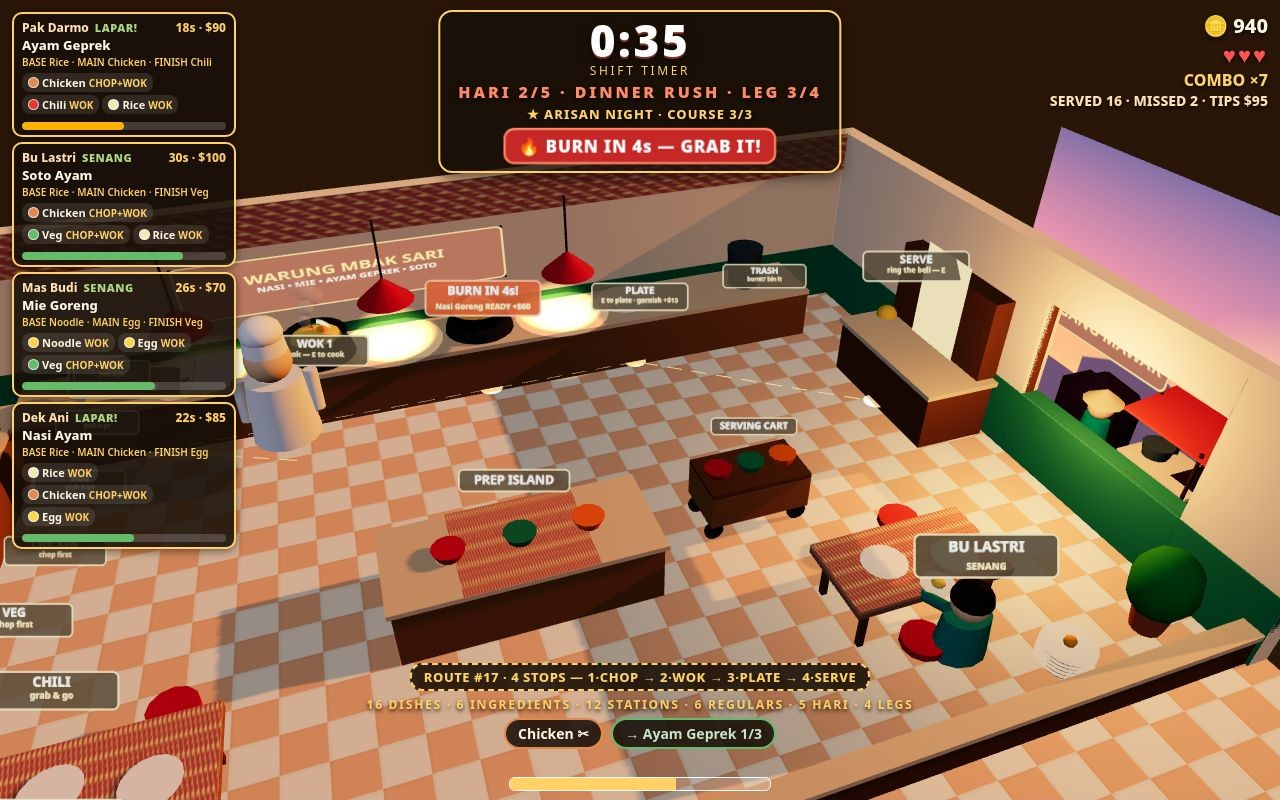
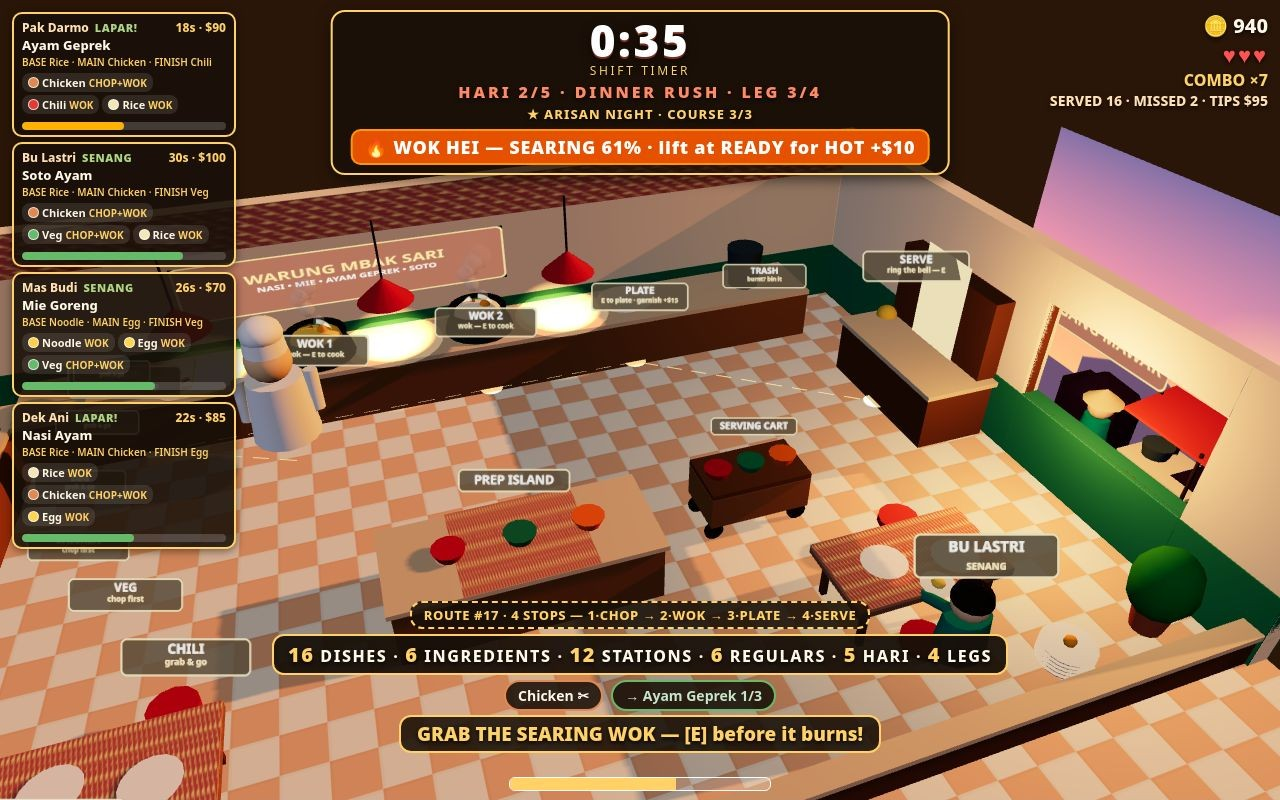
v6 challenger: wide establishing cover + hatch queue, legible meta strip, restored instruction line, wok-hei meter in cooking shot, plate-READY + VEG-label nits fixed

diff --git a/game/src/world3d.js b/game/src/world3d.js
@@ -380,6 +380,7 @@ export class World3D {
     this.buildRoom();
     this.buildStations();
     this.buildChef();
+    this.buildCoverQueue();
     // The gold route line on the floor: chef → every stop on the plan, in
     // order. Same plan as the HUD chip (routeSteps), so the two can never
     // disagree. Waypoint dots mark each stop; the line is the whole route,
@@ -674,10 +675,11 @@ export class World3D {
       // Crate labels sit toward the room (east), clear of the left frame edge:
       // the ticket column covers the first ~236px, so labels live well east
       // of the crates — v4's NOODLE pill was cut behind the tickets.
-      // Southern crates sit low in frame, so their labels ride higher —
-      // otherwise CHILI's pill is cut at the bottom edge.
+      // Southern crates sit low in frame, so their labels ride higher AND
+      // further east — otherwise VEG/CHILI pills are cut at the left edge
+      // (v5 nit, still visible in the v6 cover/cooking first shoot).
       const lab = labelSprite(s.label, s.gives === 'chicken' || s.gives === 'veg' ? 'chop first' : 'grab & go', 0.65);
-      lab.position.set(s.x + 2.4 + Math.max(0, s.z - 2.2) * 0.5, 1.95 + Math.max(0, s.z - 0.5) * 0.25, s.z);
+      lab.position.set(s.x + 2.4 + Math.max(0, s.z - 0.5) * 0.55, 1.95 + Math.max(0, s.z - 0.5) * 0.25, s.z);
       g.add(lab);
     } else if (s.kind === 'board') {
       box(1.5, 0.07, 0.9, 0xe8c98a, s.x, y + 0.04, s.z, g);
@@ -783,7 +785,10 @@ export class World3D {
       // the dish, its 3/3 layers and its price, the progress ring on the plate.
       const ready = dynamicLabel();
       ready.sprite.scale.set(2.1, 0.66, 1);
-      ready.sprite.position.set(s.x, 2.3, -3.35);
+      // v6 nit fix: the READY sub-line sat at y 2.3 / z -3.35, level with
+      // the hanging lamp shades (x 2, y 2.3) — partly occluded. It now rides
+      // higher and a touch forward of the lamp plane, clear of every shade.
+      ready.sprite.position.set(s.x, 2.62, -3.0);
       ready.sprite.visible = false;
       g.add(ready.sprite);
       this.plateReady = ready;
@@ -966,6 +971,41 @@ export class World3D {
     }
   }
 
+  /** The customer queue at the serve hatch — v6 cover only. Three regulars
+   *  waiting for their plates, facing the hatch: the cover's establishing
+   *  shot shows the warung serving real people, not an empty room. Hidden
+   *  in every other shot and in live play (the hatch stays usable). */
+  buildCoverQueue() {
+    const g = new THREE.Group();
+    const waiting = [
+      { x: 6.3, z: -2.8, shirt: 0xef6c00, hat: false },
+      { x: 6.4, z: -0.2, shirt: 0x5c6bc0, hat: true },
+      { x: 6.2, z: 1.0, shirt: 0x00897b, hat: false },
+    ];
+    for (const w of waiting) {
+      const body = new THREE.Mesh(new THREE.CylinderGeometry(0.28, 0.34, 0.62, 12), mat(w.shirt));
+      body.position.set(w.x, 0.62, w.z);
+      g.add(body);
+      const head = new THREE.Mesh(new THREE.SphereGeometry(0.23, 12, 10), mat(0xf2c89b));
+      head.position.set(w.x, 1.1, w.z);
+      g.add(head);
+      const hair = new THREE.Mesh(new THREE.SphereGeometry(0.24, 12, 10, 0, Math.PI * 2, 0, Math.PI / 2), mat(0x2b2118));
+      hair.position.set(w.x, 1.14, w.z);
+      g.add(hair);
+      if (w.hat) {
+        const hat = new THREE.Mesh(new THREE.ConeGeometry(0.3, 0.22, 12), mat(0xe8c98a));
+        hat.position.set(w.x, 1.32, w.z);
+        g.add(hat);
+      }
+    }
+    const lab = labelSprite('ANTRI 3', 'waiting at the hatch', 0.85);
+    lab.position.set(6.3, 2.15, -0.9);
+    g.add(lab);
+    g.visible = false;
+    this.scene.add(g);
+    this.coverQueue = g;
+  }
+
   buildChef() {
     const g = new THREE.Group();
     g.scale.setScalar(1.2); // the chef is the hero — BIG, mid-task, in frame
@@ -1043,6 +1083,8 @@ export class World3D {
   /** Mirror the live game state into the 3D scene. Called every frame. */
   sync(game, time) {
     const { cook } = game;
+    // The hatch queue exists only in the cover establishing shot.
+    if (this.coverQueue) this.coverQueue.visible = game.shot === 'cover';
     // Chef position, heading and walk bob.
     this.chef.position.set(cook.x, 0, cook.z);
     this.chef.rotation.y = cook.heading;
@@ -1228,12 +1270,20 @@ export class World3D {
     }
   }
 
-  /** Shot discipline: ONE strong camera for all four staged shots — the set
-   *  reads as one game getting busier (timer down, streak up, orders up),
-   *  not four different angles. Live play keeps the chase camera. The staged
-   *  camera yaws ~15° toward the east wall so the street outside the window
-   *  (passer-by, stall, GANG MAWAR sign) is in frame, not off the right edge. */
+  /** Shot discipline: ONE strong camera for the book/cooking/tally shots —
+   *  the set reads as one game getting busier (timer down, streak up,
+   *  orders up), not four different angles. The COVER breaks the rule on
+   *  purpose (v6): a high wide diagonal from the dining side (south-west)
+   *  looking north-east — the whole warung, the serve hatch with its
+   *  customer queue, and the street through the east window — so the cover
+   *  reads as an establishing shot, not "the same game at a different
+   *  moment". Live play keeps the chase camera. */
   followCamera(cook, shot) {
+    if (shot === 'cover') {
+      this.camera.position.set(-6.5, 11.0, 11.5);
+      this.camera.lookAt(2.0, 0, -2.5);
+      return;
+    }
     if (shot) {
       this.camera.position.set(-1.2, 8.6, 9.2);
       this.camera.lookAt(2.8, 0.2, -2.2);

diff --git a/game/src/shots.js b/game/src/shots.js
@@ -56,29 +56,34 @@ export function applyShot(game, name) {
   setWok(cook.wok2, null, 0, 0, false, false);
 
   if (name === 'cover') {
-    // Golden-hour dinner rush, mid-action — v5 numbers are DELIBERATELY
-    // different from v4's (1:12, 547, ×5, 9·1): 0:47 left, 812 coins,
-    // COMBO ×7, SERVED 14 · MISSED 2, HARI 2 · LEG 3/4. The set escalates
-    // as one rush: book 1:45 → cover 0:47 → cooking 0:35 → tally close.
-    game.elapsed = 133;
-    board.coins = 812; board.combo = 7; board.served = 14; board.lost = 2; board.tips = 105;
+    // WIDE ESTABLISHING SHOT — v6 re-frames the cover completely: a high
+    // diagonal from the dining side (south-west) looking north-east across
+    // the whole warung — crates, north counter, serve hatch with a customer
+    // queue, and the street through the east window — NOT the v5 straight-on
+    // mid-rush framing (AxForge: v5 read as "the same game at a different
+    // moment"). Staged numbers are DELIBERATELY different from v4's
+    // (1:12, 547, ×5, 9·1) AND v5's (0:47, 812, ×7, 14·2): 0:25 left,
+    // 963 coins, COMBO ×9, SERVED 17 · MISSED 1, HARI 2 · LEG 4/4.
+    // The set escalates as one rush: book 1:45 → cover 0:25 → cooking 0:35 → tally close.
+    game.elapsed = 155;
+    board.coins = 963; board.combo = 9; board.served = 17; board.lost = 1; board.tips = 138;
     board.tickets = [
-      ticket(1, 'nasi-goreng', 9, 44),
-      ticket(2, 'mie-goreng', 29, 42, true), // ★ CRITIC — 1.5x coins, short fuse
-      ticket(3, 'ayam-geprek', 24, 40),
-      ticket(4, 'soto-ayam', 41, 46),
-      ticket(5, 'gado-gado', 17, 36),
-      ticket(6, 'mie-ayam', 28, 44),
+      ticket(1, 'nasi-goreng', 7, 44),
+      ticket(2, 'mie-goreng', 31, 42, true), // ★ CRITIC — 1.5x coins, short fuse
+      ticket(3, 'ayam-geprek', 19, 40),
+      ticket(4, 'soto-ayam', 38, 46),
+      ticket(5, 'gado-gado', 12, 36),
+      ticket(6, 'mie-ayam', 25, 44),
     ];
-    cook.x = -2.0; cook.z = -2.7; cook.heading = 0.6;
+    cook.x = 5.6; cook.z = -1.2; cook.heading = Math.PI / 2; // at the serve hatch, facing east to ring the bell
     cook.carrying = [{ id: 'dish:mie-goreng', prepped: true, hot: true }];
-    setWok(cook.wok, 'nasi-goreng', 2.7, 6, false, false);
+    setWok(cook.wok, 'nasi-goreng', 3.1, 6, false, false);
     setWok(cook.wok2, 'mie-goreng', 7, 7, true, false, 2);
-    cook.plate = 'nasi-goreng';
+    cook.plate = 'mie-goreng';
     cook.plateHot = true;
     cook.plateGarnished = true;
     cook.plateTip = 15;
-    game.toastText = '✦ GARNISHED +$15 TIP · Nasi Goreng on the plate — serve it!';
+    game.toastText = '✦ GARNISHED +$15 TIP · Mie Goreng on the plate — serve it NOW!';
   } else if (name === 'book') {
     // The recipe book + upgrade screen (B): 8/16 dishes unlocked with their
     // BASE/MAIN/FINISH layers, one upgrade already owned, the route map to
@@ -112,9 +117,13 @@ export function applyShot(game, name) {
     cook.x = -2.8; cook.z = -2.6; cook.heading = Math.PI; // east of the chop board: clear of the ticket column, still facing the board/woks
     cook.carrying = [{ id: 'chicken', prepped: false }];
     cook.chopping = { item: cook.carrying[0], done: 1.4, total: 2.2 };
+    // v6: BOTH woks mid-sear (61% and 92%), neither ready, no toast — so
+    // the WOK HEI / SEARING-% meter finally appears in a shot (the one-banner
+    // rule shows the hei meter only when no burn/toast is up; v5's ready wok
+    // + toast hid it in all 4 shots).
     setWok(cook.wok, 'mie-goreng', 4.3, 7, false, false);
-    setWok(cook.wok2, 'nasi-goreng', 6, 6, true, false, 4);
-    game.toastText = 'Nasi Goreng ready — lift it now for a HOT +$10 tip!';
+    setWok(cook.wok2, 'nasi-goreng', 5.5, 6, false, false);
+    game.toastText = '';
   } else if (name === 'tally') {
     // Shift over: the itemized tally — dishes, tips, best combo, stars,
     // and the route map to the next shift. The loop visibly closes.

diff --git a/game/index.html b/game/index.html
@@ -70,11 +70,15 @@
     background: #ffd166; border-radius: 12px; padding: 5px 16px; margin-bottom: 6px;
     box-shadow: 0 4px 14px rgba(0,0,0,.6); }
   #toast.show { display: inline-block; }
-  /* Meta-progression strip: the campaign's scale, one quiet line */
-  #meta-strip { font-size: 12px; font-weight: 800; letter-spacing: .14em;
-    color: #ffd166; opacity: .92; text-shadow: 0 2px 4px rgba(0,0,0,.9); margin-bottom: 5px; }
+  /* Meta-progression strip: the campaign's scale — a solid high-contrast
+     pill with BIG numerals, legible at contact-sheet scale (v6: v5's small
+     grey line was misread as zeros by the judge). */
+  #meta-strip { display: inline-block; font-size: 16px; font-weight: 800; letter-spacing: .1em;
+    color: #fff8e7; background: rgba(24,16,10,.94); border: 2px solid #ffd166; border-radius: 12px;
+    padding: 5px 14px; text-shadow: 0 2px 4px rgba(0,0,0,.9); margin-bottom: 5px; }
+  .meta-num { color: #ffd166; font-size: 20px; font-weight: 900; }
   #burnbar.show.hei { display: inline-block; color: #fff; background: #e65100;
-    border: 2px solid #ff9800; }
+    border: 2px solid #ff9800; font-size: 18px; }
   #route { display: inline-block; font-size: 13px; font-weight: 800; letter-spacing: .04em;
     color: #ffd166; background: rgba(24,16,10,.88); border: 2px dashed #ffd166;
     border-radius: 12px; padding: 3px 12px; margin-bottom: 5px; }
@@ -90,7 +94,9 @@
   .carry-item { display: inline-block; background: rgba(24,16,10,.88); border: 2px solid #fff;
     border-radius: 16px; padding: 4px 12px; margin: 0 4px; font-weight: 700; font-size: 14px; }
   .carry-empty { color: rgba(255,248,231,.75); font-size: 14px; }
-  #prompt { font-size: 17px; font-weight: 700; text-shadow: 0 2px 4px rgba(0,0,0,.9); }
+  #prompt { font-size: 19px; font-weight: 900; color: #ffd166; text-shadow: 0 2px 4px rgba(0,0,0,.9);
+    background: rgba(24,16,10,.88); border: 2px solid #ffd166; border-radius: 12px;
+    padding: 4px 16px; display: inline-block; }
   #say { font-size: 15px; font-weight: 700; color: #ffd166; min-height: 20px; text-shadow: 0 2px 4px rgba(0,0,0,.9); }
   #chopbar { display: none; width: 260px; height: 12px; margin: 4px auto 0;
     background: rgba(255,255,255,.2); border-radius: 6px; overflow: hidden; border: 1px solid #fff; }

diff --git a/game/src/hud.js b/game/src/hud.js
@@ -147,8 +147,13 @@ export class Hud {
     const numbered = steps.map((s, i) => `${i + 1}·${s}`).join(' → ');
     this.el.route.textContent = `ROUTE #${board.served + 1} · ${steps.length} STOP${steps.length === 1 ? '' : 'S'} — ${numbered}`;
 
-    // Meta-progression strip: the whole campaign's scale, on the face.
-    this.el.meta.textContent = '16 DISHES · 6 INGREDIENTS · 12 STATIONS · 6 REGULARS · 5 HARI · 4 LEGS';
+    // Meta-progression strip: the whole campaign's scale, on the face —
+    // a solid high-contrast pill with BIG numerals (v6: v5's small grey
+    // line was misread as zeros — "DISHES 0 INGREDIENTS 0 …").
+    this.el.meta.innerHTML =
+      '<span class="meta-num">16</span> DISHES · <span class="meta-num">6</span> INGREDIENTS · ' +
+      '<span class="meta-num">12</span> STATIONS · <span class="meta-num">6</span> REGULARS · ' +
+      '<span class="meta-num">5</span> HARI · <span class="meta-num">4</span> LEGS';
 
     // ONE BANNER PER MOMENT (declutter rule — the judges' "three
     // overlapping banners" charge): burn beats toast beats sub-rush.

diff --git a/game/src/main.js b/game/src/main.js
@@ -32,6 +32,15 @@ const keys = new Set();
 let clickTarget = null;
 let clickInteracted = false;
 
+// One instruction line per staged shot (v6): the judge sees feedback +
+// instruction, not just a banner — while the one-banner rule still holds.
+const SHOT_PROMPTS = {
+  cover: 'SERVE NOW — [SPACE] at the hatch · ring the bell!',
+  book: '[B] close the book · spend coins on an upgrade',
+  cooking: 'GRAB THE SEARING WOK — [E] before it burns!',
+  tally: '[ENTER] cook the next leg — HARI 3 awaits',
+};
+
 function resize() {
   const w = window.innerWidth;
   const h = window.innerHeight;
@@ -210,7 +219,7 @@ function frame() {
     promptText = '';
   }
 
-  hud.setPrompt(game.shot ? '' : promptText); // staged shots: no "WASD…" line — the frame is the game
+  hud.setPrompt(game.shot ? SHOT_PROMPTS[game.shot] || '' : promptText); // staged shots: one clear instruction line, not silence — v5's declutter cost v4's feedback edge, so the shot carries its own instruction
   hud.render(game);
   world.sync(game, t);
   if (game.phase === 'title') {

diff --git a/game/src/recipes.js b/game/src/recipes.js
@@ -125,7 +125,7 @@ export function eventFor(elapsedSec) {
   if (elapsedSec < 60) return 'BUKA WARUNG · HARI 1/5';
   if (elapsedSec < 120) return '★ KENDURI — COURSE 2/3 · 3 PLATES TO GO';
   if (elapsedSec < 150) return '★ ARISAN NIGHT · COURSE 3/3';
-  return 'LAST CALL · HARI 1/5';
+  return 'LAST CALL · HARI 2/5';
 }
 
 /** The sub-rush inside the rush: a short timer that lives inside the leg,
